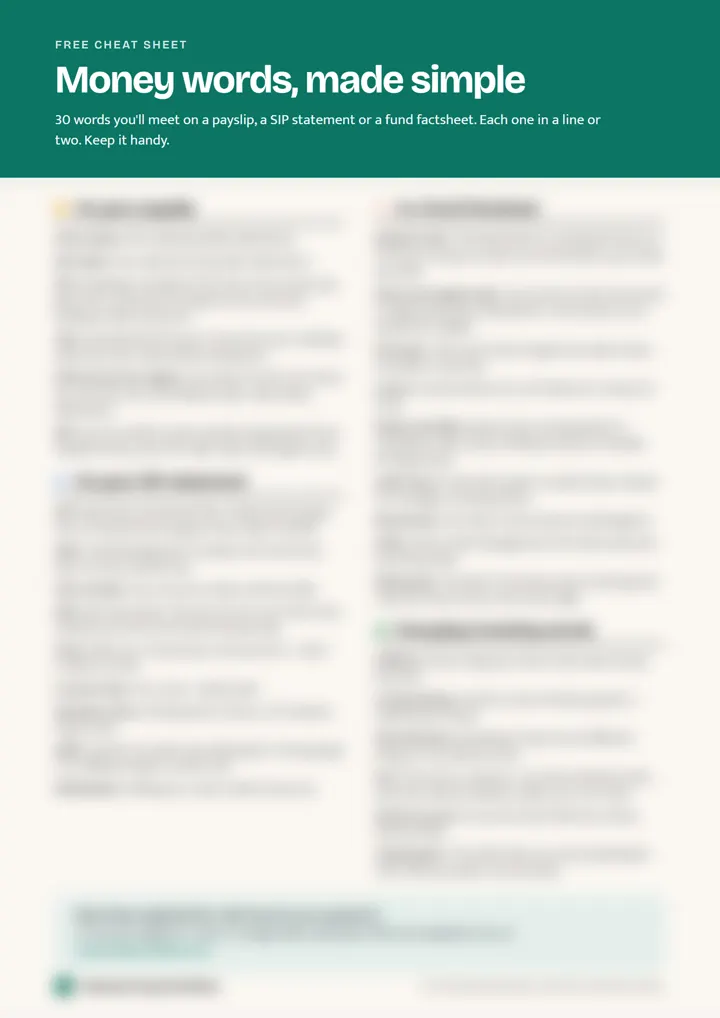
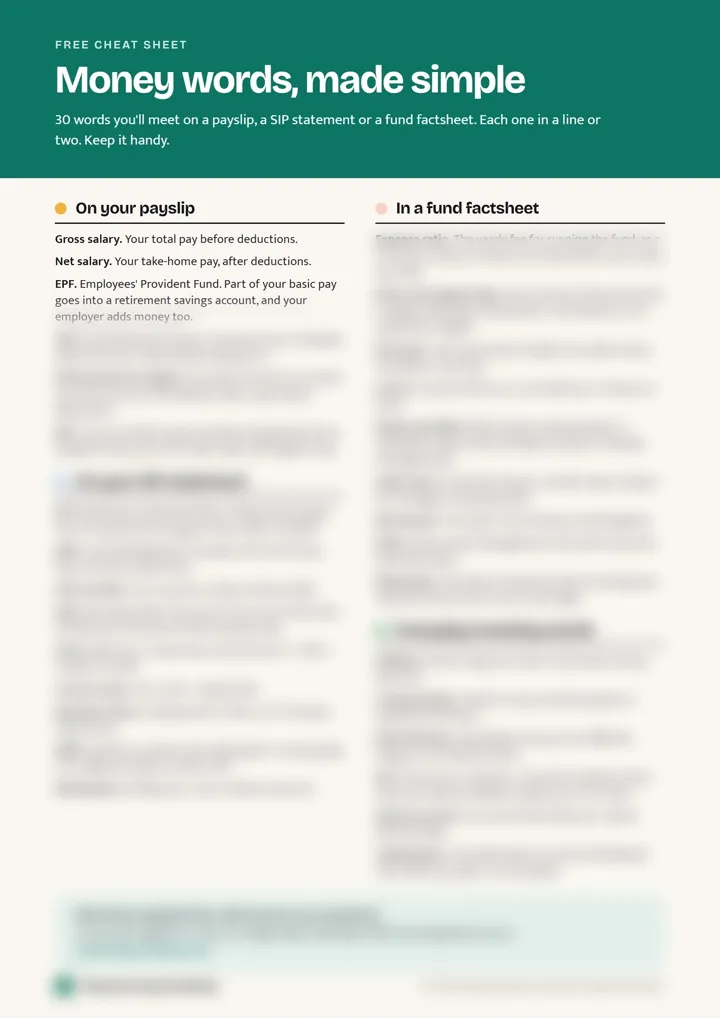
Cheat-sheet preview: first three words sharp, rest blurred, with a +27 more label

Changed region(s): [[0.0611, 0.1827, 0.4583, 0.335], [0.5194, 0.1827, 0.7639, 0.2436]]

diff --git a/_dev/ads/meta-nov26.html b/_dev/ads/meta-nov26.html
@@ -54,6 +54,7 @@ h1 .hl { color: var(--accent); }
 .ad-6 .mid { flex: 1; min-height: 0; overflow: hidden; justify-content: flex-start; margin: 48px -88px 0; padding: 24px 88px 0; }
 .ad-6 .sheet { margin-bottom: 0; flex: none; }
 .ad-6 .cta { position: relative; z-index: 2; background: var(--accent); margin: 0 -88px; padding: 36px 88px 64px; }
+.more6 { position: absolute; left: 50%; top: 400px; translate: -50% 0; rotate: -3deg; padding: 20px 36px 16px; border-radius: 999px; background: var(--ink); color: #fff; font: 600 36px/1 Mukta; white-space: nowrap; box-shadow: 0 16px 36px -12px rgba(0,0,0,.5); }
 </style>
 </head>
 <body>
@@ -132,7 +133,7 @@ h1 .hl { color: var(--accent); }
   <span class="eyebrow">Free download</span>
   <h1>30 money words.<br><span class="hl">One page. Free.</span></h1>
   <p class="sub">Payslip, SIP statement, fund factsheet. Each word in a line or two.</p>
-  <div class="mid"><img class="sheet" src="../../assets/img/money-words-preview.webp" alt=""></div>
+  <div class="mid"><img class="sheet" src="../../assets/img/money-words-preview.webp" alt=""><span class="more6">+27 more words · free</span></div>
   <div class="cta" style="color:#fff;border:0"><div class="brand">%LOGO_W%<span>Research<small>by Srivathsa</small></span></div><span class="btn" style="background:#fff;color:var(--accent)">Get it free →</span></div>
   <p class="legal" style="color:#CFE7DF;z-index:3">Educational content only. Not investment advice.</p>
 </section>

diff --git a/assets/css/site.css b/assets/css/site.css
@@ -970,7 +970,11 @@ html:not(.js) .toy-ctrl { display: none; }
 .mw-form .inline-form .field { flex-basis: 100%; }
 .mw-form .inline-form .btn { flex: 1 1 100%; justify-content: center; }
 .mw-form .form-note { font-size: 1rem; margin: 0; }
-.mw-sheet { margin: 0; justify-self: center; width: min(100%, 26rem); }
+.mw-sheet { position: relative; margin: 0; justify-self: center; width: min(100%, 26rem); }
+/* the first three words are sharp in the image; this label sits over the blurred rest */
+.mw-more { position: absolute; left: 50%; top: 58%; translate: -50% 0; rotate: -2deg; }
+.mw-more a { display: inline-flex; gap: 6px; white-space: nowrap; padding: 12px 22px; border-radius: 999px; background: var(--ink); color: #fff; font-weight: 600; font-size: 1rem; text-decoration: none; box-shadow: 0 12px 28px -10px rgb(23 23 28 / .5); }
+.mw-more a:hover { background: var(--accent); }
 .mw-sheet img { display: block; width: 100%; height: auto; border-radius: 12px; border: 1px solid var(--line); box-shadow: var(--shadow-1), 0 24px 48px -24px rgb(23 23 28 / .35); transform: rotate(-2deg); }
 .mw-groups { display: grid; gap: var(--s3); grid-template-columns: minmax(0, 1fr); margin-top: var(--s4); }
 @media (min-width: 760px) { .mw-groups { grid-template-columns: 1fr 1fr; } }

diff --git a/money-words.html b/money-words.html
@@ -71,7 +71,8 @@
     </div>
 
     <figure class="mw-sheet rise" style="--d:5">
-      <img src="assets/img/money-words-preview.webp" width="720" height="1018" alt="Preview of the one-page cheat sheet, Money words, made simple. The definitions are blurred until you sign up." fetchpriority="high">
+      <img src="assets/img/money-words-preview.webp" width="720" height="1018" alt="Preview of the one-page cheat sheet, Money words, made simple. The first three words show: gross salary, net salary and EPF. The rest are blurred until you sign up." fetchpriority="high">
+      <figcaption class="mw-more"><a href="#mw-email">+27 more words <span aria-hidden="true">·</span> free with your email</a></figcaption>
     </figure>
   </div>
 </section>
